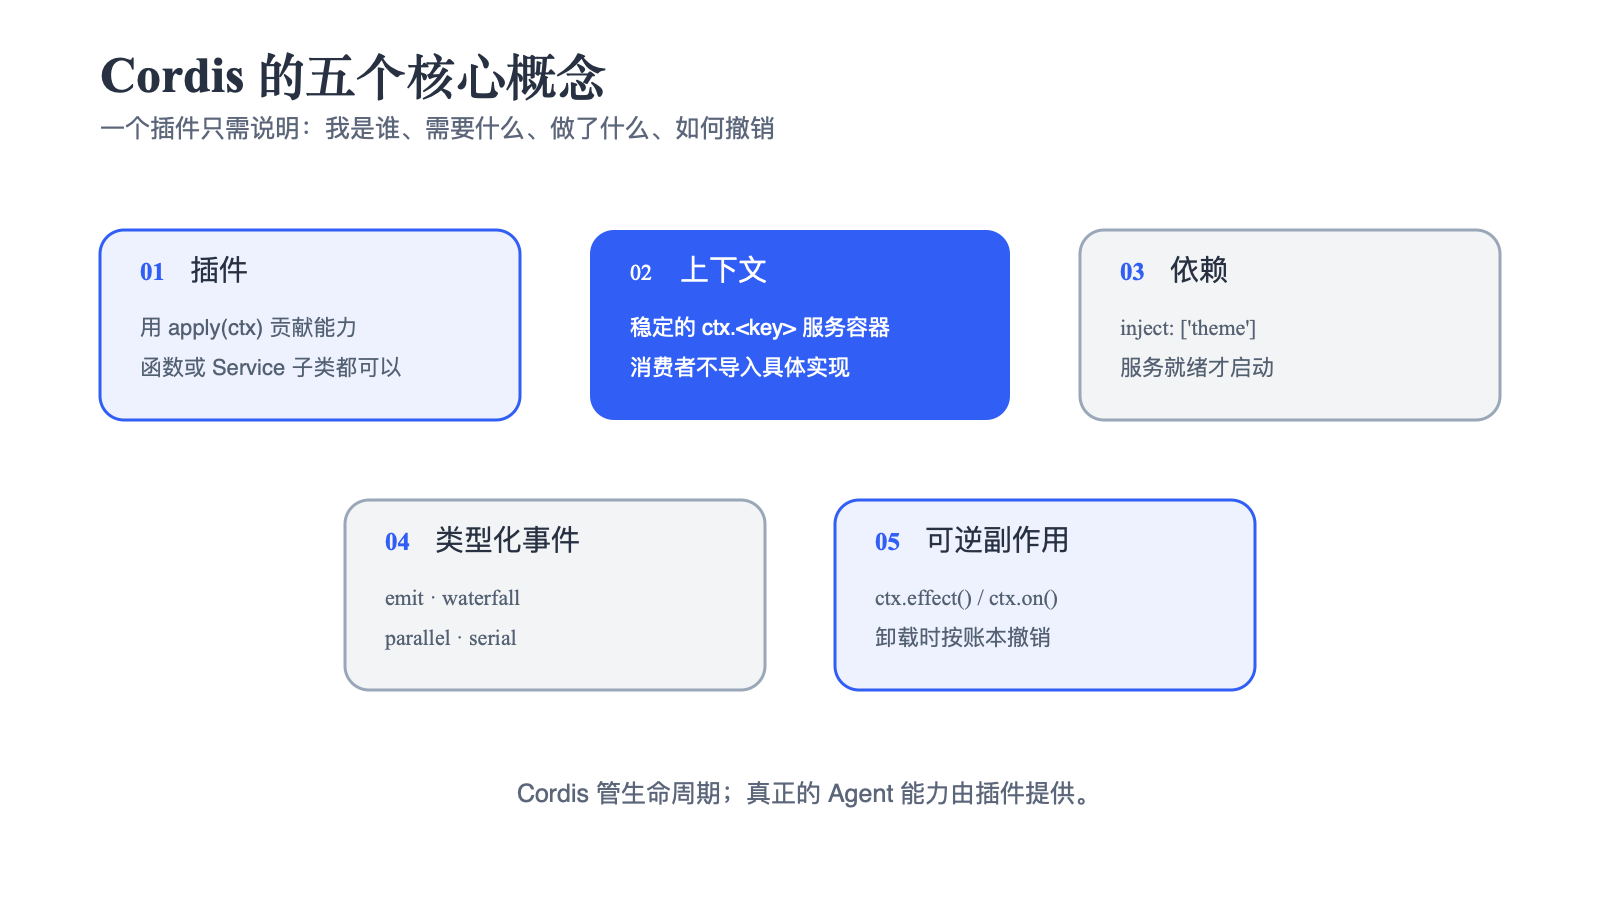
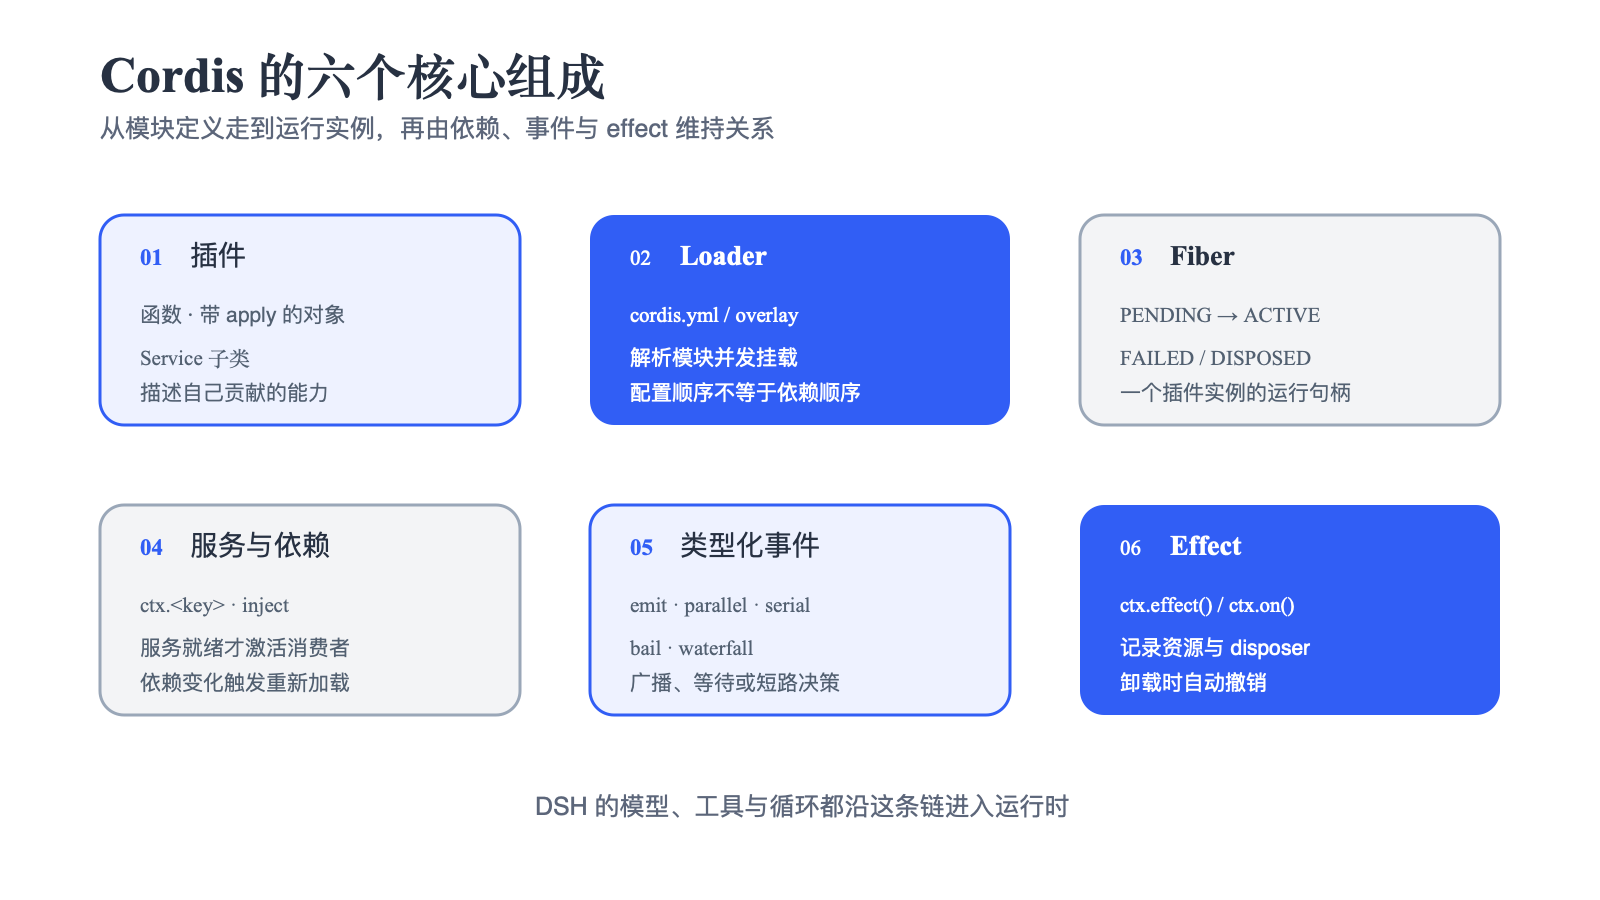
docs: enhance chapter 12 with detailed explanations of Cordis's modular design, plugin management, and dynamic composability, while updating SVG assets for improved clarity

diff --git a/scripts/prepare_svg_assets.py b/scripts/prepare_svg_assets.py
@@ -1,0 +1,67 @@
+#!/usr/bin/env python3
+"""Convert Markdown SVG images to temporary vector PDFs for XeLaTeX."""
+
+from __future__ import annotations
+
+import argparse
+import re
+import shutil
+import subprocess
+from pathlib import Path
+
+
+IMAGE = re.compile(r"(!\[[^]]*]\()([^\s)]+)((?:\s+['\"][^'\"]*['\"])?\))")
+
+
+def convert(markdown: Path, book_dir: Path, output_dir: Path) -> int:
+    converter = shutil.which("rsvg-convert")
+    if converter is None:
+        raise SystemExit(
+            "书稿引用了 SVG，但缺少 rsvg-convert。macOS 可运行：brew install librsvg"
+        )
+
+    converted: dict[str, Path] = {}
+
+    def replace(match: re.Match[str]) -> str:
+        target = match.group(2)
+        if "://" in target or target.startswith("data:"):
+            return match.group(0)
+        if Path(target).suffix.lower() != ".svg":
+            return match.group(0)
+
+        source = (book_dir / target).resolve()
+        if not source.is_file():
+            raise SystemExit(f"SVG 图片不存在：{source}")
+        try:
+            relative = source.relative_to(book_dir.resolve())
+        except ValueError as error:
+            raise SystemExit(f"SVG 图片必须位于 book/ 目录：{source}") from error
+
+        destination = (output_dir / relative).with_suffix(".pdf")
+        if target not in converted:
+            destination.parent.mkdir(parents=True, exist_ok=True)
+            subprocess.run(
+                [converter, "--format=pdf", f"--output={destination}", str(source)],
+                check=True,
+            )
+            converted[target] = destination
+        return f"{match.group(1)}{destination.resolve()}{match.group(3)}"
+
+    text = markdown.read_text(encoding="utf-8")
+    markdown.write_text(IMAGE.sub(replace, text), encoding="utf-8")
+    return len(converted)
+
+
+def main() -> None:
+    parser = argparse.ArgumentParser()
+    parser.add_argument("--markdown", type=Path, required=True)
+    parser.add_argument("--book-dir", type=Path, required=True)
+    parser.add_argument("--output-dir", type=Path, required=True)
+    args = parser.parse_args()
+    count = convert(args.markdown, args.book_dir, args.output_dir)
+    if count:
+        print(f"SVG 矢量转译：{count} 张")
+
+
+if __name__ == "__main__":
+    main()

diff --git a/book/chapter12.md b/book/chapter12.md
@@ -1,18 +1,49 @@
 # dsh 的核心：cordis {#ch-12}
 
-模型决定 Agent 能想多远，harness 决定它能做什么。Cordis 是 dsh 的装配层：让模型、工具、沙箱、会话和 Agent Loop 都成为可替换的插件，并负责它们的挂载、卸载与依赖关系。
+模型决定 Agent 能想多远，harness 决定它能做什么。Cordis 位于 dsh 的装配层。模型、工具、沙箱、会话和 Agent Loop 都由插件提供，Cordis 管理它们的挂载、卸载与依赖关系。
 
 ![一图读懂 Cordis 的能力、问题、场景与未来](assets/chapter12/12-0-01-cordis-overview.svg)
 
 ## 一切皆插件：dsh 的模块化设计 {#sec-12-1}
 
-“一切皆插件”要按字面理解。模型适配器、工具注册表、会话日志、沙箱、存储、界面，甚至决定下一步的 Agent Loop，都以插件形式进入同一个 Cordis Context。Cordis 只负责装配，能力留在插件里。
+模型适配器、工具注册表、会话日志、沙箱、存储和界面都会进入同一个 Cordis Context。决定下一步动作的 Agent Loop 也在其中。Cordis 负责装配，具体能力留在插件里。
 
 ![dsh 的各项能力通过 Cordis Context 协作](assets/chapter12/12-1-01-everything-is-plugin.svg)
 
-这解决了传统扩展系统的一个限制：开发者不必等待核心项目预留扩展点，也不必 fork 一份源码。换模型、换沙箱或增加工具，都可以通过换插件或叠加配置完成。
+插件配置项会并发启动。`cordis.yml` 中排在前面的插件，不一定先执行。插件需要另一项能力时，应通过 `inject` 声明依赖，由 Cordis 决定启动时机。
 
-### 亲手看见插件树
+### 跑通官方最小插件
+
+官方教程的第一份插件只有一个命名导出和一个 `apply` 函数。
+
+```ts
+import type { Context } from '@deepseek-ai/cordis'
+
+export const name = 'hello'
+
+export function apply(ctx: Context) {
+  console.log('hello from my first plugin')
+}
+```
+
+`cordis.yml` 只负责选择这个模块。
+
+```yaml
+- name: './hello.ts'
+```
+
+我按官方 master 版教程实际运行了启动器。终端打印下面这一行，进程以状态码 0 退出。
+
+```console
+$ node --import tsx ../../vendor/cordis/bin.js
+hello from my first plugin
+```
+
+![官方最小插件从配置到输出的完整路径](assets/chapter12/12-1-04-official-loader-flow.svg)
+
+这里没有框架启动代码。启动器创建根 `Context`，Loader 读取配置并挂载 `hello.ts`，随后 Cordis 调用 `apply(ctx)`。插件描述自己的贡献，配置文件负责组合应用。
+
+### 从一个插件看到完整 dsh
 
 下面的命令不需要模型密钥。它会打印当前 profile 最终装配出的配置树：
 
@@ -20,77 +51,78 @@
 dsh --profile web --dump-config
 ```
 
-实际输出中，驱动整个循环的 `agent-loop` 和维护待办列表的 `tool-todo` 具有相同的配置形状。
+实际输出中，驱动循环的 `agent-loop` 和维护待办列表的 `tool-todo` 具有相同的配置形状。
 
 ![实际 dump-config 输出中 agent-loop 与 tool-todo 是平等插件](assets/chapter12/12-1-02-plugin-tree-proof.svg)
 
-配置树不是一份不可动的默认配置。dsh 从空列表开始，依次叠加组合包、profile 补丁、home 补丁和命令行补丁。后面的层可以替换前面的条目。
+dsh 从空列表开始，依次叠加组合包、profile 补丁、home 补丁和 `--patch` overlay。后应用的层按 `id` 覆盖前面的配置行。覆盖会替换整块 `config`，不会深度合并其中的键。
 
 ![dsh 从组合包到用户补丁的分层装配](assets/chapter12/12-1-03-composition-layers.svg)
 
-四种运行模式也是同一机制：Standard、Code、Minimal 和 Creator 只是四套不同的插件组合。切换模式，本质上是在给会话换一组能力。
+Standard、Code、Minimal 和 Creator 是四套插件组合。切换模式，相当于给会话换一组能力。
 
 ## cordis 的核心组成 {#sec-12-2}
 
-Cordis 可以压缩成五个概念。
+官方教程展开了六个彼此衔接的组成部分。
 
-![Cordis 的五个核心概念](assets/chapter12/12-2-01-five-concepts.svg)
+![Cordis 的六个核心组成](assets/chapter12/12-2-01-five-concepts.svg)
 
-- **Plugin** 用 `apply(ctx)` 贡献能力。
-- **Context** 用稳定的 `ctx.<key>` 保存服务。
-- **inject** 声明依赖，服务未就绪时插件不会启动。
-- **Event** 让插件协作；`waterfall` 事件还能拦截请求或工具执行。
-- **Effect** 记录注册动作及其清理函数，卸载时自动撤销。
+插件接受三种形态。最常用的是函数，也可以传入带 `apply` 方法的对象。需要公开服务时，再使用 `Service` 子类。
+
+Loader 把每个配置项挂载成一个 fiber。fiber 会经过 `PENDING`、`LOADING`、`ACTIVE`、`UNLOADING` 和 `DISPOSED` 等状态；加载或配置校验失败时进入 `FAILED`。
+
+服务以名称挂在 `ctx` 上。`inject` 声明硬依赖，服务未就绪时 fiber 留在 `PENDING`。提供方在运行中消失，消费方会先卸载；服务恢复后，消费方再重新加载。
+
+事件负责松耦合通信。Cordis 提供 `emit`、`parallel`、`serial`、`bail` 和 `waterfall` 五种分发模式。harness 使用 `waterfall` 包装模型请求与审批决定。观察型监听器必须调用 `next()`，否则会截断后续处理。
+
+effect 保存资源和对应的 disposer。`ctx.on()`、`ctx.plugin()`、服务注册和工具注册本身已经属于 effect；定时器、连接或 watcher 等外部资源才需要手动放进 `ctx.effect()`。
 
 ### 两种可组合性
 
-论文把动态组合拆成两个正交问题：组件退出后，做过的修改能否撤销；依赖出现、消失或换实现后，其他组件能否自动调整。
+论文把动态组合拆成两个问题。组件退出后，已经做过的修改要能撤销；依赖出现、消失或换实现后，相关组件要能跟着调整。
 
 ![时间可组合性与空间可组合性](assets/chapter12/12-2-02-spatiotemporal.svg)
 
-**时间可组合性**把副作用和逆操作放在一起。插件注册工具、监听器或服务时，Cordis 同时记下如何撤销；卸载时按相反顺序清理。
+**时间可组合性**把副作用和逆操作放在一起。卸载开始时，Cordis 按 effect 的注册顺序逆向启动 disposer。多个异步 disposer 可能并发运行；有严格先后关系的清理步骤应放进同一个 disposer，逐项等待。
 
-**空间可组合性**把依赖写进 `inject`。提供方出现，消费者激活；提供方要离开，消费者先停用并撤销自己的副作用，再允许提供方退出。
+**空间可组合性**把依赖写进 `inject`。提供方出现，消费者激活。提供方准备退出时，消费者先撤销自己的 effect，随后提供方才能完成卸载。
 
 ### 用 seam 替换能力
 
-dsh 把可替换能力称为 **seam**（接缝）。一条 seam 由接口定义、提供方和消费者组成。消费者只认稳定接口，不知道背后是本机、沙箱、远程服务，还是另一个 Agent 产品。
+dsh 把可替换能力称为 **seam**（接缝）。一条 seam 包含接口定义、提供方和消费者。消费者只认识稳定接口，无需知道背后运行的是本机进程、远程沙箱或另一个 Agent 产品。
 
 ![同一个能力 seam 可以接入不同提供方](assets/chapter12/12-2-03-capability-seam.svg)
 
-这带来几类直接场景：
+评测可以固定工具与循环，只替换 `llm` 服务。部署时也能让同一套 shell 消费方在本机后端和远程沙箱之间切换。
 
-- 固定工具和循环，只替换模型，用于可重复评测；
-- 把文件系统和进程后端一起换成远程沙箱；
-- 在同一子 Agent 接口后接入进程内 Agent、ACP、Codex 或 Claude Code；
-- 运行时更换存储、模型路由或权限策略，而不改消费方。
+子 Agent 接口采用同样的做法，后端可以接进程内 Agent、ACP、Codex 或 Claude Code。存储与权限策略也能沿各自的 seam 更换，消费方无需改动。
 
 ## cordis 的设计原理 {#sec-12-3}
 
-传统插件系统常把模块问题推给进程重启：插件卸载不干净，就重启整个宿主；依赖变化难处理，就拆成服务交给容器编排。Cordis 把治理粒度降回组件本身。
+传统插件系统常用进程重启处理卸载残留和依赖变化。Cordis 把治理粒度缩小到插件实例，并用 fiber 保存每个实例的运行状态。
 
 ![Cordis 从整机重启转向模块级恢复，同时保留系统边界](assets/chapter12/12-3-01-problem-scenes-boundary.svg)
 
-这里有两条重要边界。
+HMR 利用这套机制。旧插件先卸载，所属 effect 随之回卷；新代码随后加载，依赖它的插件自动重新求解。Loader 还会按稳定 `id` 比较新旧配置，只处理发生变化的配置项。
 
-第一，Cordis 只能撤销被 Context 纳入管理的副作用。已经发出的消息、写入外部系统的数据或完成的付款，不会因为插件卸载而自动消失；这类动作仍需延迟提交或补偿操作。
+`PENDING` 也是正常状态。依赖的服务暂时没有提供方时，插件可以安静等待。如果应用中没有其他活跃任务，Node 甚至会正常退出。新增插件毫无输出时，应先检查模块拼写和 fiber 状态。
 
-第二，依赖声明不是安全沙箱。恶意插件如果能直接访问 Node.js 或原生系统接口，仍可能绕过 Context；不可信代码需要进程、WebAssembly、虚拟机等隔离边界。
+这套机制有两条边界。
+
+Cordis 只能撤销由 Context 管理的副作用。已经发出的消息、写入外部系统的数据或完成的付款不会随插件卸载消失，这些动作仍需延迟提交或补偿操作。
+
+依赖声明也不承担安全隔离。恶意插件如果能直接访问 Node.js 或原生系统接口，仍可能绕过 Context。不可信代码需要进程、WebAssembly 或虚拟机等隔离边界。
 
 ### X 上的三种判断
 
-截至 2026 年 8 月 18 日，公开讨论主要集中在三个方向：
+截至 2026 年 8 月 19 日，公开讨论大致分成三类。Pi Agent 作者 Armin Ronacher 认为，dsh 虽不完美，却让他重新审视自己的 harness 设计，并称赞项目选择开源。
 
-- Pi Agent 作者 Armin Ronacher 认为，dsh 虽不完美，却是少见的、让他愿意重新审视自身 harness 设计的开源项目。
-- 早期体验者关注 Creator 模式展示出的自修改能力：Agent 能生成并挂载插件，但内存插件重启后消失，距离持续自演化还有一步。
-- 谨慎意见集中在 Node.js 工具链门槛、插件兼容、界面复杂度和安全治理；这些问题决定 Cordis 能否从开发者框架走向普通用户产品。
+早期体验者更关注 Creator 模式展示的自修改能力。Agent 已能生成并挂载插件，运行时实验默认不会跨重启保留，持续自演化仍有一段路。谨慎意见则集中在 Node.js 工具链门槛、插件兼容和安全治理。
 
-### 未来不是“插件更多”
+### 未来要验证什么
 
-Cordis 已在 Koishi 的 4000 多个社区插件中证明了动态装配可以支撑真实生态；dsh 则把这套机制带进 Agent harness。论文同时明确：**持续由 Agent 生成、替换和回滚自身组件，仍是未来验证方向，不是已经完成的结论。**
+Cordis 已在 Koishi 的 4000 多个社区插件中支撑真实生态。dsh 把同一机制带进 Agent harness。论文把持续生成、替换和回滚自身组件列为后续验证方向，尚未把它当成已经完成的能力。
 
 ![从 Koishi 生产验证到自演化 harness 的下一步](assets/chapter12/12-3-02-community-future.svg)
 
-接下来的关键，不只是让 Agent “会改自己”，而是回答五个问题：外部动作如何补偿，不可信插件如何隔离，依赖接口如何做版本兼容，频繁重组的运行成本多高，以及谁来批准和审计长期自演化。
-
-> 本章资料截至 2026 年 8 月 18 日。dsh 仍处于 Developer Preview，插件 API 可能发生破坏性变化。核心事实以 [DeepSeek Harness 官方仓库](https://github.com/deepseek-ai/deepseek-harness)、[Cordis 仓库](https://github.com/cordiverse/cordis) 和论文 [A Programming Paradigm for Spatiotemporal Composability](https://github.com/cordiverse/paper) 为准。
+下一步要先处理外部动作补偿和不可信代码隔离，再评估接口兼容与频繁重组的运行成本。长期自演化还需要明确的批准与审计机制。
